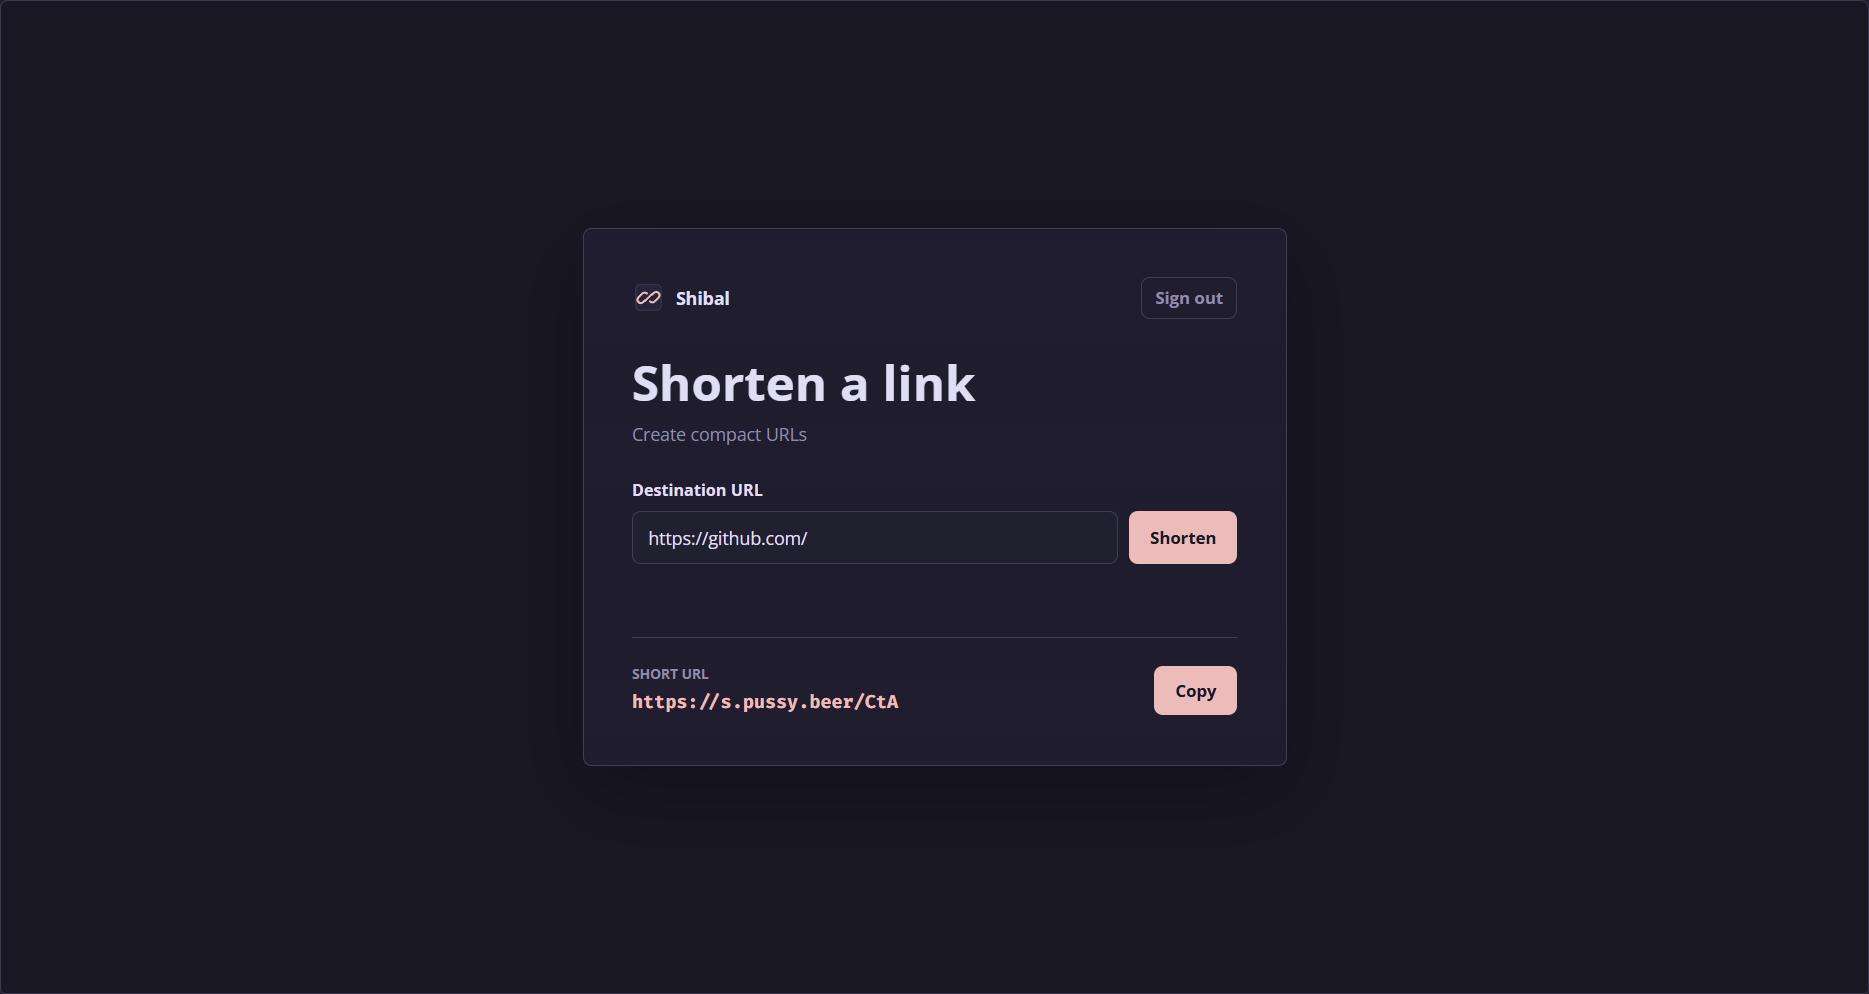
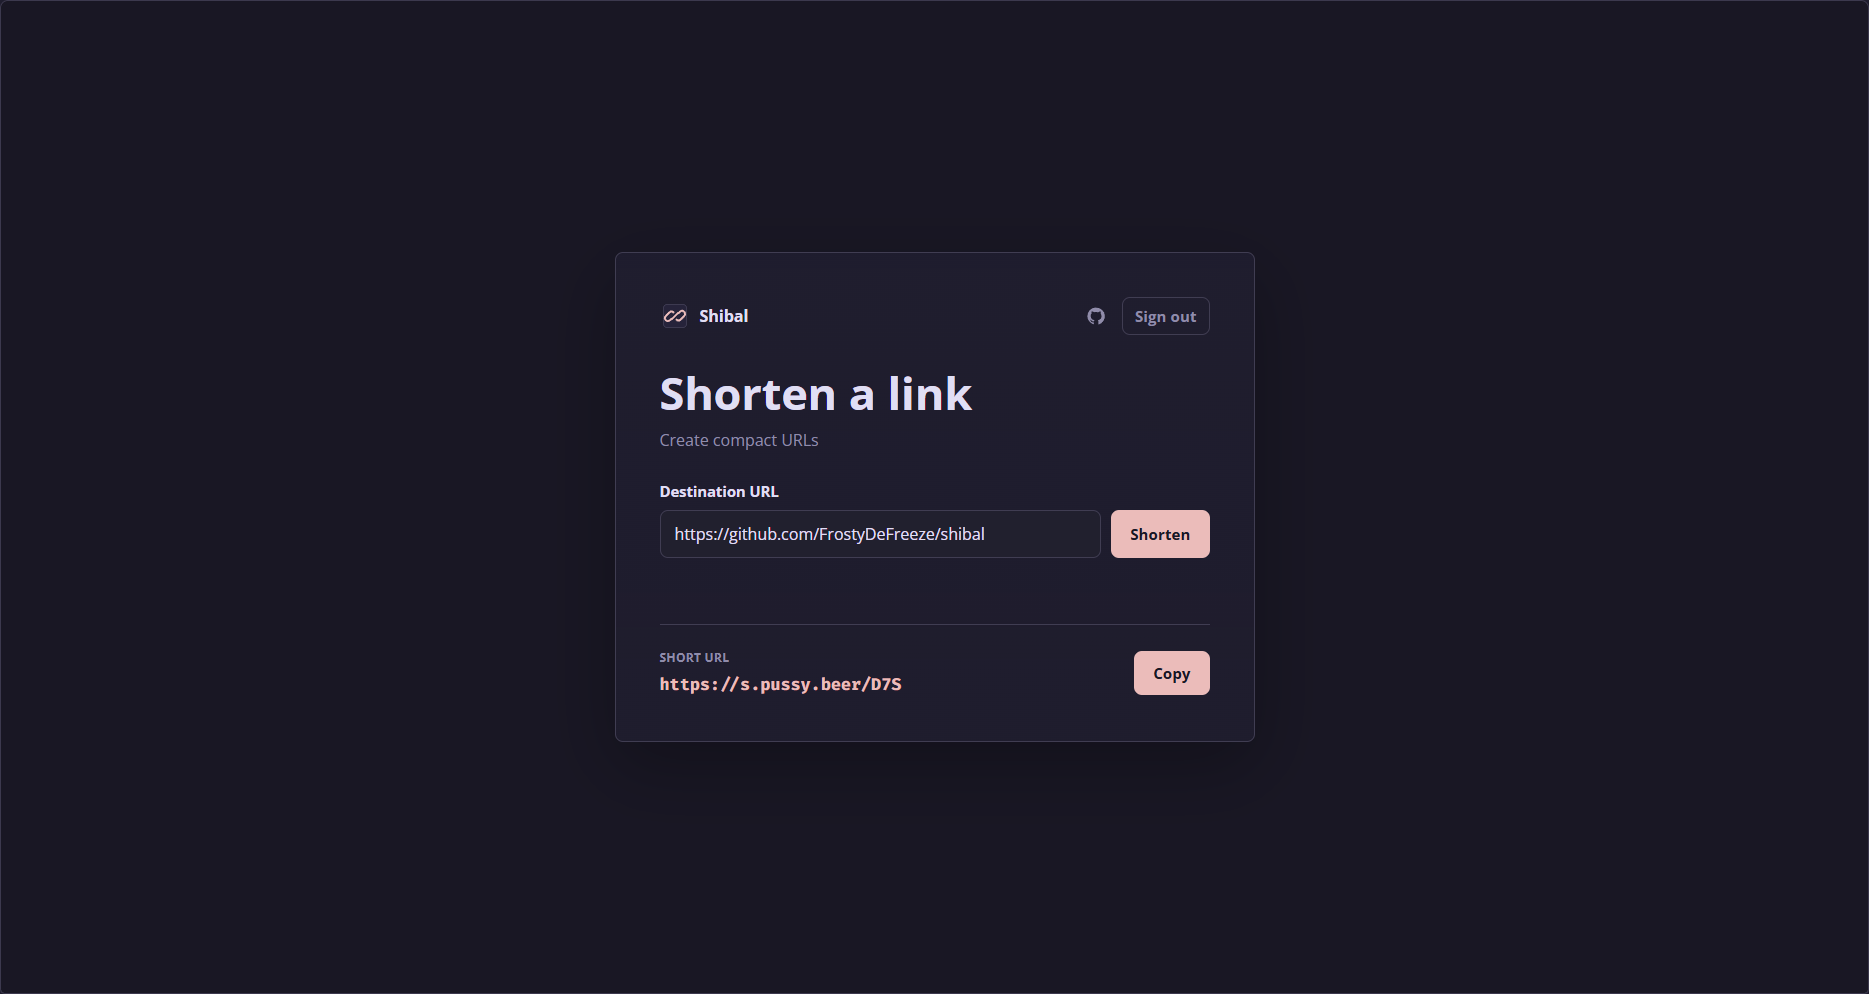
docs(readme): refresh documentation

diff --git a/README.md b/README.md
@@ -1,4 +1,4 @@
-# Shibal
+# <p style="text-align: center;">Shibal</p>
 
 Private URL shortener on Node.js and Express
 
@@ -7,18 +7,19 @@ Private URL shortener on Node.js and Express
 
 ## Purpose
 
-Shibal creates short links for URLs and stores them in a JSON file without a database. It is built for private use: creating links requires an API token, while following a short link is public
+Shibal creates compact public redirects and stores them in a JSON file. It is built for private use: creating links requires an API token, while opening a short link is public to anyone who has it
 
 ## Features
 
-- Private link creation and public redirects: creating links requires a token, following them does not
+- Private writes and public redirects: creating links requires a token, following links does not
 - Short links with configurable id length
 - No database: links are stored in `data.json`
-- Normalized URL deduplication: re-shortening an already stored URL returns the existing short link
+- URL deduplication: shortening the same normalized URL returns the existing short link
 - Bare URLs are supported: `example.com` is normalized to `https://example.com/`
 - Protocol URLs are supported, including magnet links
 - Unsafe protocols are blocked: `javascript:`, `data:`, `file:`, and similar values
-- Private token gate for the UI and link creation API
+- Token-gated UI for creating links
+- Open Graph/Twitter metadata
 - Atomic `data.json` writes through temp file + rename
 
 ## Deployment
@@ -26,7 +27,9 @@ Shibal creates short links for URLs and stores them in a JSON file without a dat
 Requires Node.js 18+
 
 ```bash
-npm install
+git clone https://github.com/FrostyDeFreeze/shibal
+cd shibal
+npm i
 cp .env.example .env
 npm start
 ```
@@ -63,46 +66,8 @@ API errors use this format:
 }
 ```
 
-### `POST /auth/verify`
-
-Verifies the API token
-
-Requires authorization
-
-Response:
-
-```json
-{ "ok": true }
-```
-
-### `POST /shorten`
-
-Creates a short link or returns the existing short link for the same URL
-
-Requires authorization
-
-Request body:
-
-```json
-{
-	"url": "https://example.com/page"
-}
-```
-
-Response:
-
-```json
-{
-	"url": "https://example.com/page",
-	"short": "aB3",
-	"full": "http://localhost:7000/aB3"
-}
-```
-
-### `GET /:short`
-
-Redirects to the original URL
-
-Public route
-
-If the short link is not found, Shibal returns the HTML `404` page
+| Method | Endpoint       | Access  | Description                                                                  | Body                                    | Response                                                                                     |
+| ------ | -------------- | ------- | ---------------------------------------------------------------------------- | --------------------------------------- | -------------------------------------------------------------------------------------------- |
+| `POST` | `/auth/verify` | Private | Checks that the token is valid                                               | -                                       | `{ "ok": true }`                                                                             |
+| `POST` | `/shorten`     | Private | Creates a short link or returns the existing one for the same normalized URL | `{ "url": "https://example.com/page" }` | `{ "url": "https://example.com/page", "short": "aB3", "full": "http://localhost:7000/aB3" }` |
+| `GET`  | `/:short`      | Public  | Redirects to the original URL                                                | -                                       | `302` redirect, or the HTML `404` page when the short link is not found                      |
